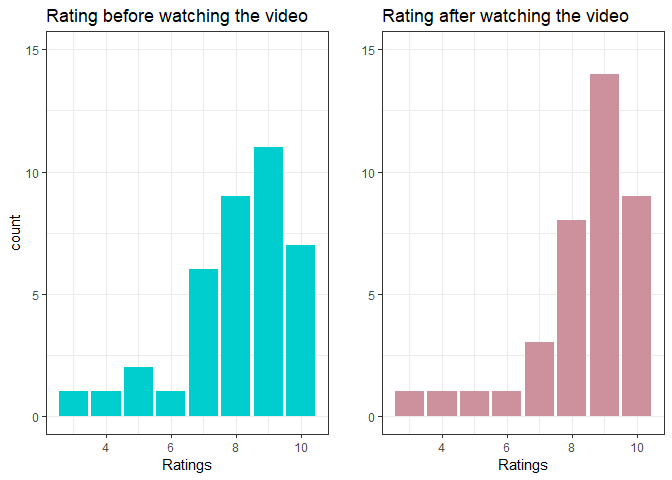
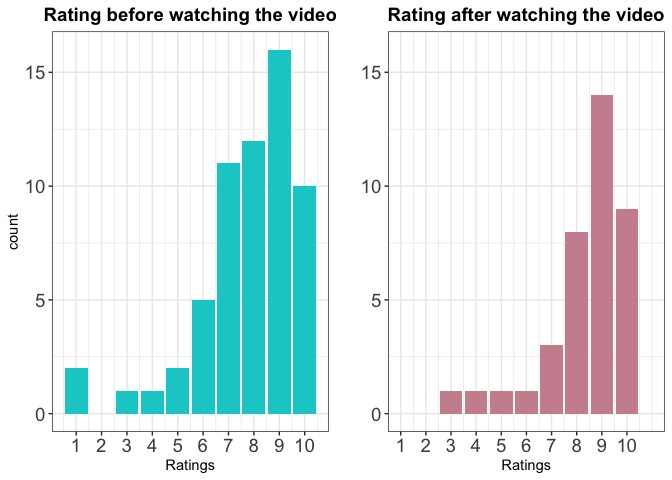
Fix plot title and binwidth

diff --git a/Milestone2/Milestone2_EDA.md b/Milestone2/Milestone2_EDA.md
@@ -3,17 +3,20 @@ Milestone2\_EDA
 Wilson D., Marcelle C., Kera Y., Heather VT.
 4/5/2019
 
-This dataset is aimed to answer the question "Does a personâs frequency of recycling influence her/his opinion and attitudes towards the importance of sustainability?". The description of columns as follows:
+This dataset is aimed to answer the question “Does a person’s frequency
+of recycling influence her/his opinion and attitudes towards the
+importance of sustainability?”. The description of columns as follows:
 
--   `Q1_1`: How important is being environmentally sustainable to you on a scale from 1-10?
--   `Q2`: How often do you generally recycle?
--   `Q3`: What is your age group?
--   `Q4`: Did you grow up in an environmentally-conscious family?
--   `Q5`: Will you watch the video?
--   `Q6_1`: After watching this video about recycling, how important is sustainability to you on a self-ranked scale from 1-10 scale?
+  - `Q1_1`: How important is being environmentally sustainable to you on
+    a scale from 1-10?
+  - `Q2`: How often do you generally recycle?
+  - `Q3`: What is your age group?
+  - `Q4`: Did you grow up in an environmentally-conscious family?
+  - `Q5`: Will you watch the video?
+  - `Q6_1`: After watching this video about recycling, how important is
+    sustainability to you on a self-ranked scale from 1-10 scale?
 
-Load Data
-=========
+# Load Data
 
 ``` r
 #tidy data and give correct data type
@@ -55,21 +58,36 @@ summary(tidy_data)
     ##  NA's   :9
 
 > Analyzing the summary table, we noticed:
->
-> **Q1\_1: How important is being environmentally sustainable to you on a scale from 1-10?**: on average, people rated sustainability as a 7.7 initially.
->
-> **Q2: How often do you generally recycle?**: Most of participants have a good recycling habit: 29 answered "Usually" and 27 answered "Always". Only 4 other participants recycle sometimes or rarely.
->
-> **Q3: What is your age group?**: 60% of the participants are from the younger groups, having 20-29 years old. We had a considerable amount of people with 40+, but only 5% of the respondents are 35-39 years old.
->
-> **Q4: Did you grow up in an environmentally-conscious family?**: 46.7% of the respondents grow up in an environmentally-conscious family.
->
-> **Q5: Will you watch the video?**: Only 63% of the respondents confirmed that they watched the video.
->
-> **Q6\_1: After watching this video about recycling, how important is sustainability to you on a self-ranked scale from 1-10 scale?**: The self rank about sustainability importance after watching the video had a slightly higher mean and median than the first one (9 and 8.1 vs. 8 and 7.8, respectively). However, some people who didn't watch the video answered the last question, since we had 15 respondents who said on Q5 that they passed the video, and only 9 participants answered NA to Q6\_1.
+> 
+> **Q1\_1: How important is being environmentally sustainable to you on
+> a scale from 1-10?**: on average, people rated sustainability as a 7.7
+> initially.
+> 
+> **Q2: How often do you generally recycle?**: Most of participants have
+> a good recycling habit: 29 answered “Usually” and 27 answered
+> “Always”. Only 4 other participants recycle sometimes or rarely.
+> 
+> **Q3: What is your age group?**: 60% of the participants are from the
+> younger groups, having 20-29 years old. We had a considerable amount
+> of people with 40+, but only 5% of the respondents are 35-39 years
+> old.
+> 
+> **Q4: Did you grow up in an environmentally-conscious family?**: 46.7%
+> of the respondents grow up in an environmentally-conscious family.
+> 
+> **Q5: Will you watch the video?**: Only 63% of the respondents
+> confirmed that they watched the video.
+> 
+> **Q6\_1: After watching this video about recycling, how important is
+> sustainability to you on a self-ranked scale from 1-10 scale?**: The
+> self rank about sustainability importance after watching the video had
+> a slightly higher mean and median than the first one (9 and 8.1 vs. 8
+> and 7.8, respectively). However, some people who didn’t watch the
+> video answered the last question, since we had 15 respondents who said
+> on Q5 that they passed the video, and only 9 participants answered NA
+> to Q6\_1.
 
-Explanatory Data Analysis
-=========================
+# Explanatory Data Analysis
 
 ``` r
 tidy_data %>% 
@@ -85,9 +103,13 @@ tidy_data %>%
         axis.title = element_text(size = 10))
 ```
 
-![](Milestone2_EDA_files/imgs/plot%20family%20vs.%20frequency-1.png)
+![](Milestone2_EDA_files/imgs/plot%20family%20vs.%20frequency-1.png)<!-- -->
 
-> As we can see from the above plot, most of our respondent have a good recycling habit whether or not they live in a environmentally-consicous family. However, if one respondent did not grow up in an environmentally-conscious family then he/she may not recycle at all.
+> As we can see from the above plot, most of our respondent have a good
+> recycling habit whether or not they live in a
+> environmentally-consicous family. However, if one respondent did not
+> grow up in an environmentally-conscious family then he/she may not
+> recycle at all.
 
 ``` r
 ggplot(tidy_data, aes(Q3)) +
@@ -100,9 +122,7 @@ ggplot(tidy_data, aes(Q3)) +
         axis.title = element_text(size = 13))
 ```
 
-    ## Warning: Ignoring unknown parameters: binwidth, bins, pad
-
-![](Milestone2_EDA_files/imgs/age%20distribution-1.png)
+![](Milestone2_EDA_files/imgs/age%20distribution-1.png)<!-- -->
 
 ``` r
 qplot(tidy_data$Q3, tidy_data$Q1_1, geom="boxplot") +
@@ -116,9 +136,18 @@ qplot(tidy_data$Q3, tidy_data$Q1_1, geom="boxplot") +
         axis.title = element_text(size = 13))
 ```
 
-![](Milestone2_EDA_files/imgs/plot%20age%20group%20vs.%20sustainability%20importance%20before%20watching%20the%20video-1.png)
+![](Milestone2_EDA_files/imgs/plot%20age%20group%20vs.%20sustainability%20importance%20before%20watching%20the%20video-1.png)<!-- -->
 
-> Analyzing the boxplots above is easy to see that older people (`35-39` and `40+` groups) consider sustainability more important than younger groups, having a higher mean (~9 in a scale from 1-10) and narrower range. Additionaly, the other 3 groups (`20-24`, `25-29` and `30-34`) have one outlier each, where at least one respondent of each of these groups evaluated sustainability with a considerable lower importance in comparison with the other participants from their respective group. However, it's important to take into account that we have fewer responses from the second oldest age group, which can distort the analysis. Further analysis with confidence intervals is warranted.
+> Analyzing the boxplots above is easy to see that older people (`35-39`
+> and `40+` groups) consider sustainability more important than younger
+> groups, having a higher mean (~9 in a scale from 1-10) and narrower
+> range. Additionaly, the other 3 groups (`20-24`, `25-29` and `30-34`)
+> have one outlier each, where at least one respondent of each of these
+> groups evaluated sustainability with a considerable lower importance
+> in comparison with the other participants from their respective group.
+> However, it’s important to take into account that we have fewer
+> responses from the second oldest age group, which can distort the
+> analysis. Further analysis with confidence intervals is warranted.
 
 ``` r
 tidy_data %>% filter(Q5 %in% 'Have watched') %>% 
@@ -135,7 +164,7 @@ tidy_data %>% filter(Q5 %in% 'Have watched') %>%
         axis.title = element_text(size = 13))
 ```
 
-![](Milestone2_EDA_files/imgs/unnamed-chunk-1-1.png)
+![](Milestone2_EDA_files/imgs/unnamed-chunk-1-1.png)<!-- -->
 
 ``` r
 tidy_data %>% filter(Q5 %in% 'Have watched') %>% 
@@ -152,29 +181,45 @@ tidy_data %>% filter(Q5 %in% 'Have watched') %>%
         axis.title = element_text(size = 13))
 ```
 
-![](Milestone2_EDA_files/imgs/unnamed-chunk-1-2.png)
+![](Milestone2_EDA_files/imgs/unnamed-chunk-1-2.png)<!-- -->
 
-> The respondents changed their opinion on how sustainable they think they are in the positive direction. There were only two respondents who scored less after watching the video .Respondents scored more after the watching the video are the ones recycle usually. Respondents score does not appear to be affected by age group, there may be other underlying confounding factors in which we did not capture in our data collection.
+> The respondents changed their opinion on how sustainable they think
+> they are in the positive direction. There were only two respondents
+> who scored less after watching the video .Respondents scored more
+> after the watching the video are the ones recycle usually. Respondents
+> score does not appear to be affected by age group, there may be other
+> underlying confounding factors in which we did not capture in our data
+> collection.
 
 ``` r
-p1 <- tidy_data %>% 
-  filter(Q5 %in% 'Have watched') %>%
+p1 <- tidy_data %>%
   ggplot(aes(Q1_1)) +
-  geom_bar(fill = "cyan3") +
-  ylim(0, 15) +
+  geom_bar(fill = "cyan3", bins = 10) +
+  scale_x_continuous(breaks = c(1:10)) +
+  ylim(0, 16) +
   labs(title = "Rating before watching the video", x = "Ratings") +
-  theme_bw()
+  theme_bw() +
+  theme(plot.title = element_text(size = 14, face = "bold", hjust = 0.5),
+        axis.text = element_text(size = 14),
+        axis.title = element_text(size = 11))
 
-p2 <- tidy_data %>% filter(Q5 %in% 'Have watched') %>%
+p2 <- tidy_data %>%
+  filter(Q5 %in% 'Have watched') %>%
   ggplot(aes(Q6_1)) +
-  geom_bar(fill = "pink3") +
-  ylim(0, 15) +
+  geom_bar(fill = "pink3" ,bins = 10) +
+  scale_x_continuous(breaks = c(1:10),limits=c(1, 11)) +
+  ylim(0, 16) +
   labs(title = "Rating after watching the video", y = "", x = "Ratings") +
-  theme_bw()
+  theme_bw() +
+  theme(plot.title = element_text(size = 14, face = "bold", hjust = 0.5),
+        axis.text = element_text(size = 14),
+        axis.title = element_text(size = 11))
 
 grid.arrange(p1, p2, nrow = 1)
 ```
 
-![](Milestone2_EDA_files/imgs/grouped%20bar-1.png)
+![](Milestone2_EDA_files/imgs/grouped%20bar-1.png)<!-- -->
 
-> These histograms show that there was a slight shift in ratings towards more positive ratings after watching the video. Further analysis with confidence intervals will follow.
+> These histograms show that there was a slight shift in ratings towards
+> more positive ratings after watching the video. Further analysis with
+> confidence intervals will follow.
